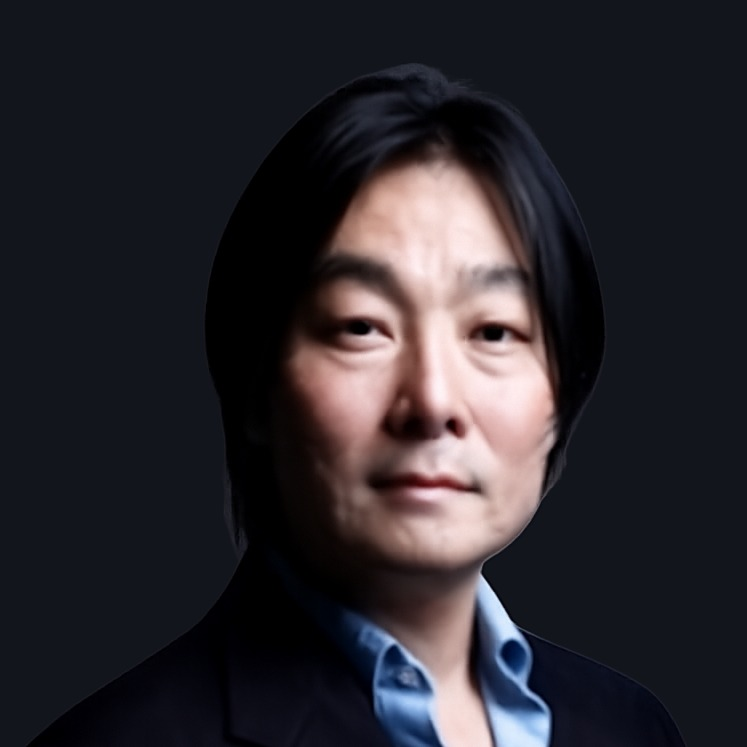
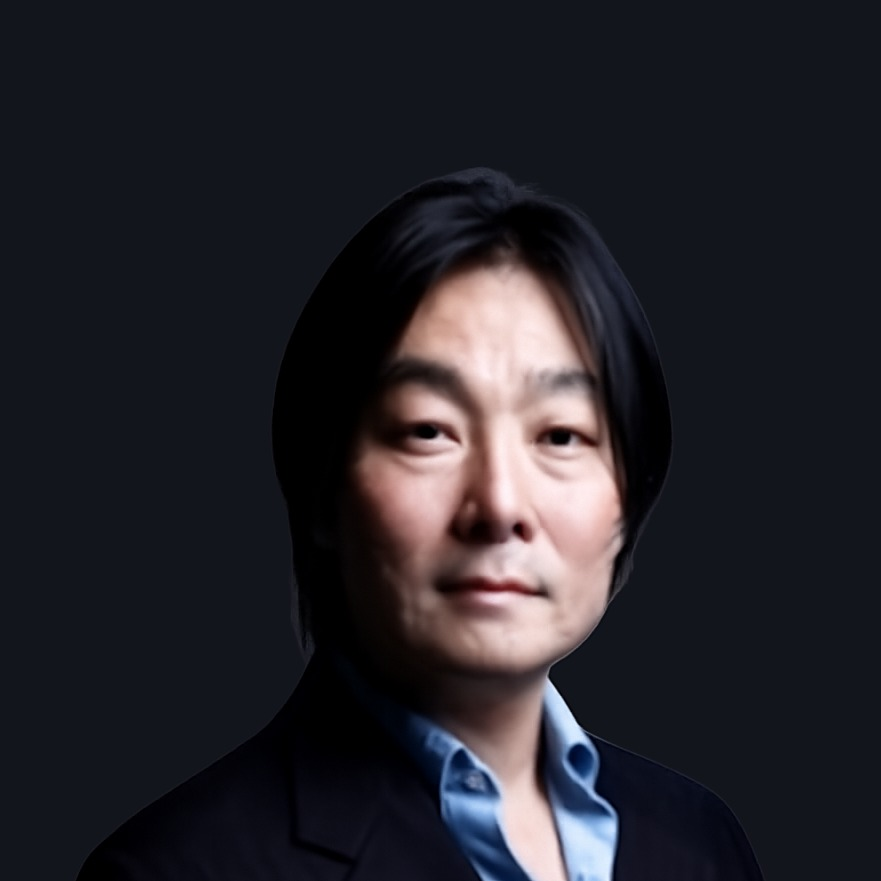
Edmund portrait v4: canvas-extended zoom-out (side 1.12x circle, 881px) — full half-portrait framing

diff --git a/index.html b/index.html
@@ -416,7 +416,7 @@
                 </div>
 
                 <div class="ht-card">
-                    <div class="ht-card__photo"><img src="img/edmund-closeup.jpg?v=3" alt="Edmund Wuu"></div>
+                    <div class="ht-card__photo"><img src="img/edmund-closeup.jpg?v=4" alt="Edmund Wuu"></div>
                     <div class="ht-card__body">
                         <h3 class="ht-card__name">Edmund Wuu</h3>
                         <p class="ht-card__role">Director</p>
